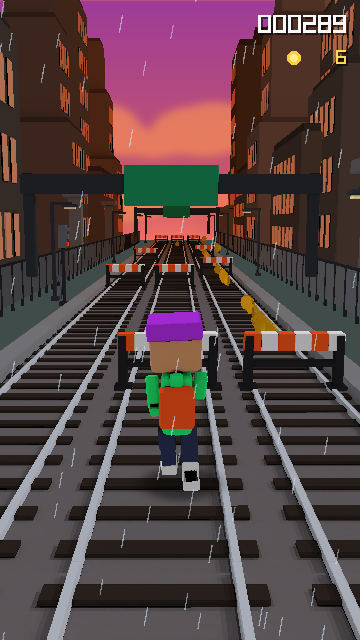
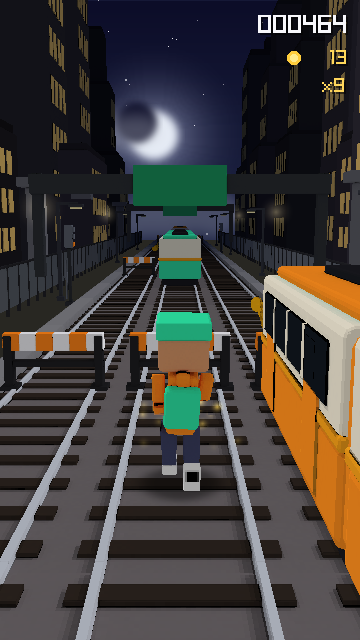
Dissolve the horizon, and stop the islands going black at night
Fixing the holes in the sea exposed what the holes had been hiding. Two
things, both about the world below.

The sea is one flat plane with no distance shading of its own, so it met the
sky along a drawn line. The horizon haze was in the wrong place to help: its
strongest rows landed fifty pixels up in the sky, where there was nothing to
hide, and by the time it reached the water it had almost faded out. It now
peaks where the sea actually ends, a little above 0.42 of the frame, and
fades downward from there -- while still fading *in* at its top edge, or it
draws its own line a few rows above the one it was meant to hide.

Distance fog in this engine is a tint, and a tint multiplies. Fogging a dark
object toward a dark fog colour therefore only ever makes it darker: by day
the fog is near white and it reads correctly, but at night the islands became
black slicks lying on the water, darker than the sea they were supposed to be
receding into. The far end of the range is now carried by alpha too, which
fades them into whatever is behind them rather than toward a colour.

Media refreshed, with a parkour night still added and the two stills that
claimed a time of day their run did not have pointed at runs that do.

diff --git a/src/brainrot/scenes/parkour.py b/src/brainrot/scenes/parkour.py
@@ -874,11 +874,18 @@ class ParkourScene(Scene):
         # Not too strong. Dawn and dusk fog is a saturated gold or pink, and at
         # the alpha this used to carry it stopped being aerial perspective and
         # became an orange wash laid over the middle of the frame.
-        band = textures.alpha_band(f"haze-{self.ctx.seed.run}", pal.fog, 155, 1.6,
-                                   ramp=0.22)
-        horizon = int(self.height * 0.30)
+        # The sea is one flat plane with no distance shading of its own, so
+        # without this it meets the sky along a drawn line rather than
+        # dissolving into one. The band therefore has to be near its strongest
+        # exactly where the sea ends -- a little above 0.42 of the frame -- and
+        # fade downward from there. It also fades *in* at its top edge, because
+        # a band that starts at full strength draws its own line across the sky
+        # a few rows above the one it was meant to hide.
+        band = textures.alpha_band(f"haze-{self.ctx.seed.run}", pal.fog, 235, 1.7,
+                                   ramp=0.09)
+        horizon = int(self.height * 0.355)
         rl.DrawTexturePro(band, (0, 0, 4, 128),
-                          (0, horizon, self.width, int(self.height * 0.46)),
+                          (0, horizon, self.width, int(self.height * 0.45)),
                           (0, 0), 0.0, rl.WHITE4)
         rl.BeginMode3D(cam[0])
 
@@ -978,6 +985,22 @@ class ParkourScene(Scene):
             rl.DrawModelEx(ground_quad(), (isl["x"], 0.06, isl["z"]), (0, 1, 0), 0.0,
                            (isl["reef"], 1.0, isl["reef"]), rl.rgba(reef, 235))
 
+    def _below_tint(self, dist: float, biome=None):
+        """Aerial perspective for the world far below.
+
+        Distance fog here is a *tint*, and a tint multiplies -- so fogging a
+        dark object toward a dark fog colour only ever makes it darker. By day
+        the fog is near white and that reads correctly; at night it turned the
+        islands into black slicks lying on the water, darker than the sea they
+        were supposed to be receding into. So the far end of the range is
+        carried by alpha as well, which fades them into whatever is behind
+        them instead of toward a colour.
+        """
+        f = max(0.0, min(1.0, dist * 0.62 / FOG_FAR + BELOW_FOG * 0.4))
+        f = f * f * (3 - 2 * f)
+        alpha = int(255 - (205 if self.palette.is_dark else 95) * f)
+        return self._fog(dist * 0.62, BELOW_FOG * 0.4, alpha=alpha, tint=biome)
+
     def _draw_islands(self, x: float, z: float) -> None:
         for isl in self.islands:
             biome = isl["biome"]
@@ -986,7 +1009,7 @@ class ParkourScene(Scene):
                 dist = math.dist((x, z), (bx, bz))
                 if dist > 300:
                     continue
-                tint = self._fog(dist * 0.62, BELOW_FOG * 0.4, tint=biome)
+                tint = self._below_tint(dist, biome)
                 s = c.get("s")
                 if s is not None:
                     voxel.draw_block(self._model(c["style"]), bx, c["y"], bz, tint, s)
@@ -999,8 +1022,7 @@ class ParkourScene(Scene):
                 dist = math.dist((x, z), (bx, bz))
                 if dist <= 300:
                     voxel.draw_box(self._model("water"), bx, fall["h"] / 2, bz,
-                                   self._fog(dist * 0.62, BELOW_FOG * 0.3),
-                                   1.4, fall["h"], 1.4)
+                                   self._below_tint(dist), 1.4, fall["h"], 1.4)
 
     def _draw_shelves(self, x: float, z: float) -> None:
         """Cloud shelves drifting between the course and the sea.

diff --git a/assets/media.py b/assets/media.py
@@ -31,9 +31,10 @@ W, H = 360, 640
 #: (file stem, scene, run) for the stills. Runs chosen for their palettes.
 STILLS = [
     ("runner-day", "runner", 3),
-    ("runner-night", "runner", 8),
+    ("runner-night", "runner", 1),
     ("parkour-day", "parkour", 5),
-    ("parkour-dusk", "parkour", 9),
+    ("parkour-dusk", "parkour", 2),
+    ("parkour-night", "parkour", 15),
 ]
 #: (file stem, scene, run, seconds, fps) for the animations
 CLIPS = [
